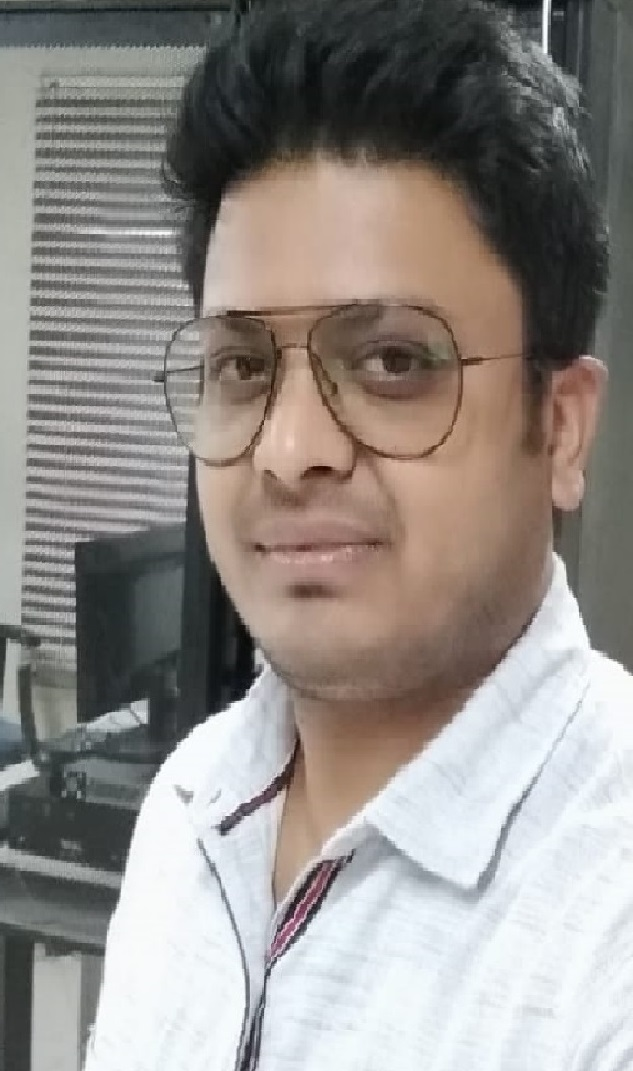
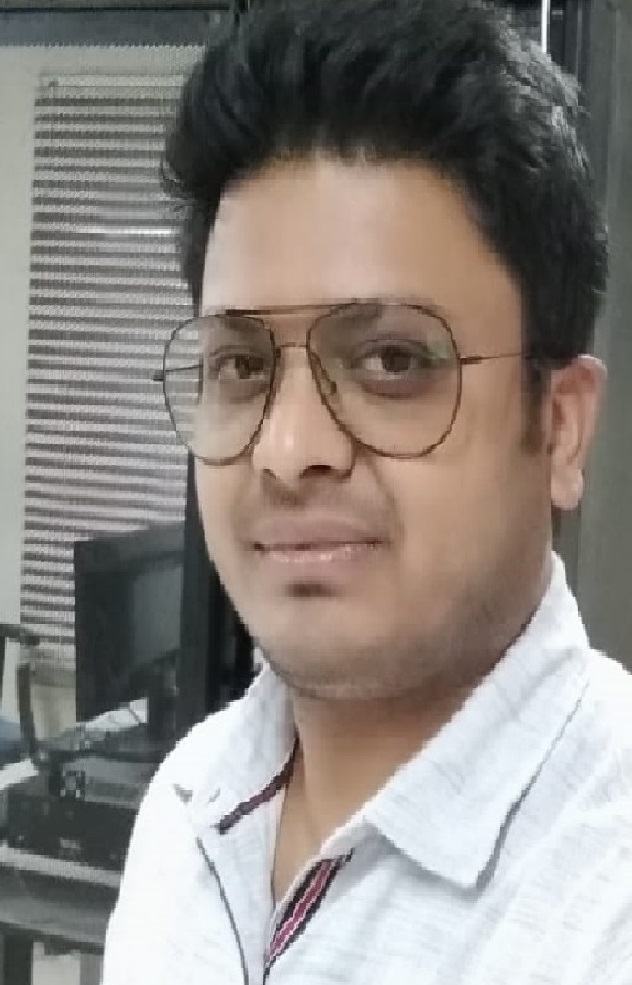
team added

diff --git a/index.html b/index.html
@@ -374,6 +374,16 @@
         </div>
       </div>
      
+     <div class="col-md-3 col-sm-6">
+        <div class="person"><img src="images/NtwCon.jpeg" alt="" class="img-responsive">
+          <div class="person-content">
+            <h4>Sumit Sharma</h4>
+            <h5 class="role">Network Consultant</h5>
+       
+          </div>
+          
+        </div>
+      </div>
       <!-- <div class="col-md-3 col-sm-6">
         <div class="person"> <img src="images/dell.svg" alt="" class="img-responsive">
           <div class="person-content">
